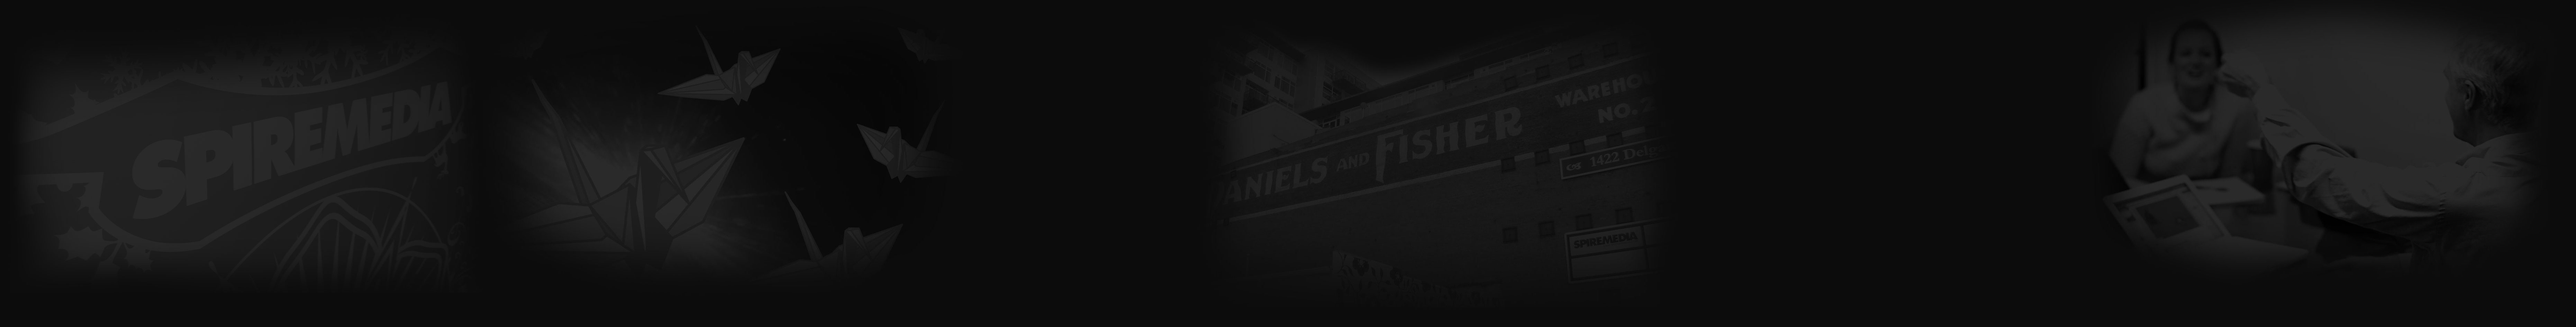
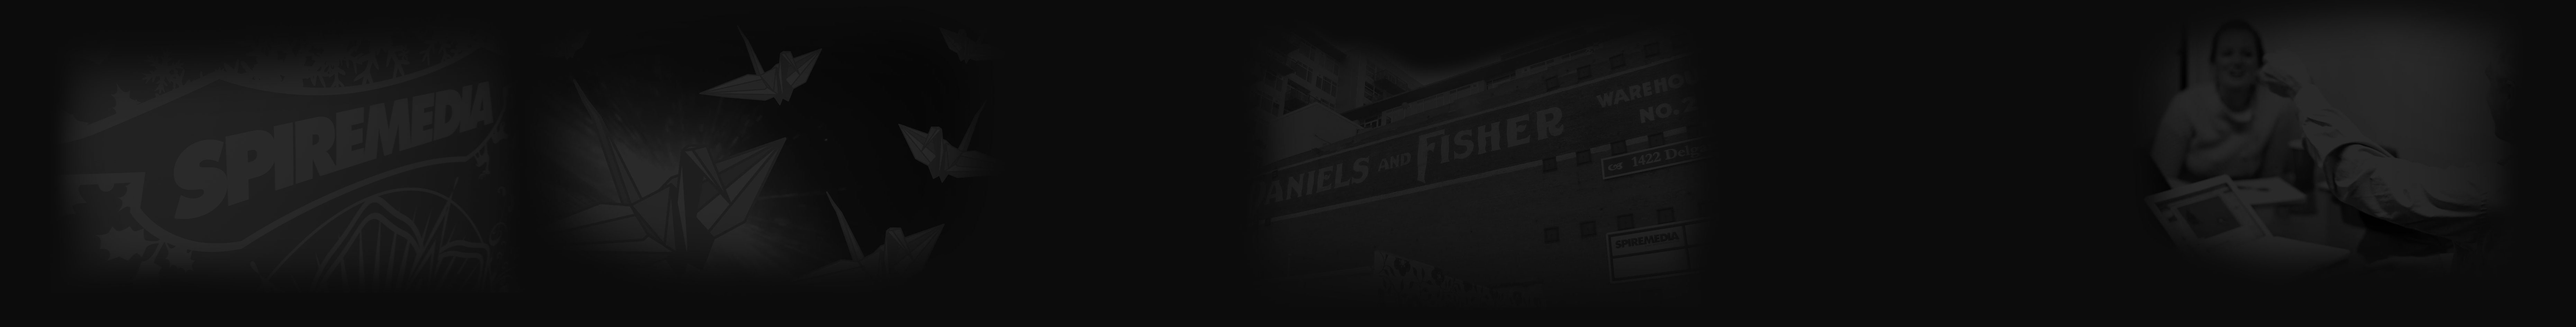
committing without the gray box.

diff --git a/client/trunk/ui/css/styles.css b/client/trunk/ui/css/styles.css
@@ -233,7 +233,7 @@ box-shadow: 0 0 5px 5px #000;}
 
 .bgg { width:1398px;}
 
-#mainWWD  { background:url(/ui/images/bgg_main-grid.png);}
+#mainWWD  { background:url(/ui/images/bgg_main-grid.png); height:946px;}
 
 #main_wwd { width:1398px; margin:0 auto; padding:0; font-family: din_medium, Helvetica, sans-serif; position:relative;} /* 1398px size of background, total = 1182px*/
 #slider1 {}
@@ -834,11 +834,11 @@ line-height: 32px; text-decoration:none; cursor:pointer;}
 
 
 /****MAIN WHAT 2***/
-#mainWhat2 { width:100%;  background: #0c0c0c; }
-#main { background:url(/ui/images/bgg_main-grid.png) #0c0c0c;} /* do the grid*/
+#mainWhat2 { width:100%; background-color:#0c0c0c;}
+#main { background:url(/ui/images/bgg_main-grid.png) ;}  /*do the grid*/
 
-#mw2 { position:relative; width:5976px; height:auto; background:url(/ui/images/bg_ourwork.jpg) top no-repeat;} /* demo 2000 container or list elements or floats*/
-.ourworkgrid{background:url(/ui/images/bgg_main-grid.png);}
+#mw2 { position:relative; width:5976px; height:auto; background:url(/ui/images/bg_ourwork.jpg)  top no-repeat;} /* demo 2000 container or list elements or floats*/
+.ourworkgrid{background:url(/ui/images/bgg_main-grid.png); height:946px;}
 .mw2-slide1 { float:left; width:3000px; padding:60px 90px 40px 90px;}
 .mw2-slide2 { float:left; width:1398px; padding:15px 0 40px 0;}
 .mw2-slide3 { float:left; width:1398px; padding:60px 0 40px 0;}
@@ -860,7 +860,7 @@ line-height: 32px; text-decoration:none; cursor:pointer;}
 
 /****MAIN WHO WE ARE 2***/
 #mainWho2{ background-color: #0c0c0c; background:url(/ui/images/bg_whoweare.jpg) top no-repeat; width:7444px;}/**/
-#mainwwa{background:url(/ui/images/bgg_main-grid.png) transparent; }/**/
+#mainwwa{background:url(/ui/images/bgg_main-grid.png); height:946px; }/**/
 #mwwa2 { position:relative; width:7444px;} /* demo 2000 container or list elements or floats*/
 
 .fudge{padding-top:118px;  height:946px;}/**/

diff --git a/client/trunk/ui/js/spire-what.js b/client/trunk/ui/js/spire-what.js
@@ -37,10 +37,10 @@ function resizeMain()
 {
     var h = $(window).height();
     var w = $(window).width();
-	var largest = 671;
+	var largest = 946;
 	var minWindow = largest + (119*2);
 	
-	if ( h > minWindow){
+	/*if ( h > minWindow){
 		$("#WWD").css('height',(h - (119*2)));
 		//$("#mainWWD").css('margin-top',(-(h -119)));
 		$("#mainWhat, .bg0, .bg1, .bg2, .bg3, .bg4").css('height',(h - (119*2)));
@@ -48,12 +48,13 @@ function resizeMain()
 		//$("#sliderInfo").css('width',1026);
 	}
 	else {
+		*/
 		$("#WWD").css('height',largest);
 		//$("#mainWWD").css('margin-top',(-(671)));
 		$("#mainWhat, .bg0, .bg1, .bg2, .bg3, .bg4").css('height',largest);
 		//$("#wwd-0, #wwd-1, #wwd-2, #wwd-3, #wwd-4").css('height',671 -45);
 		//$("#sliderInfo").css('width',1006);
-	}
+	//}
 	
 	if ( w < 1398){
 	var halfW = (w-758)/2;
